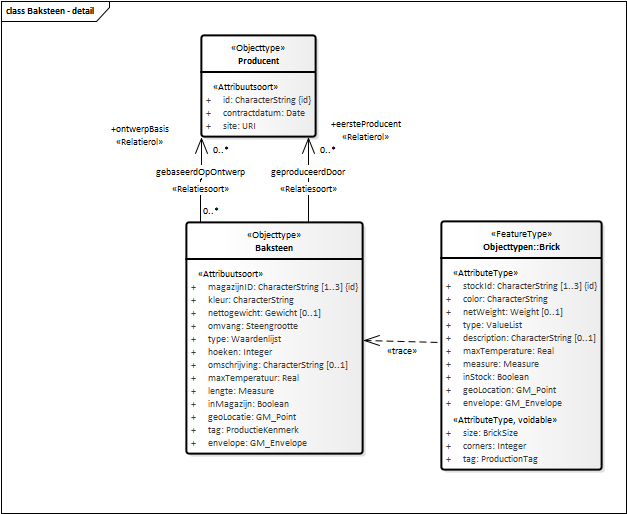
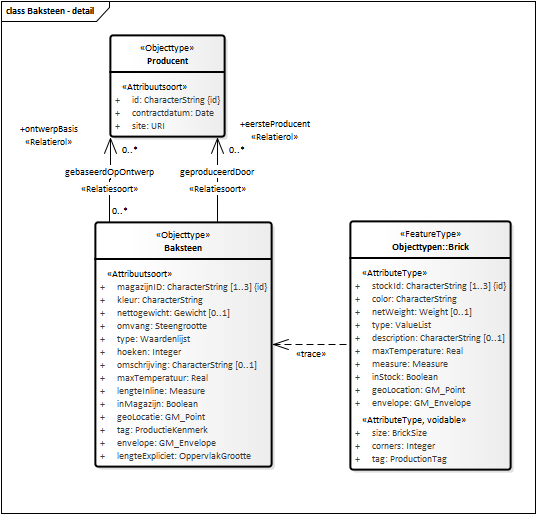
Conceptualmodel-SampleBase-1.0.0-2-20130318-20181015-102304

Changed region(s): [[0.1194, 0.0, 1.0, 0.9961], [0.0, 0.0, 0.209, 0.9961]]

diff --git a/data/SAMPLE-cat.html b/data/SAMPLE-cat.html
@@ -1,10 +1,10 @@
 <h2>Catalogus</h2>
 <p class="note" title="Over deze catalogus">
    Deze catalogus is automatisch samengesteld op basis van het UML model 
-   "SampleBase" door Imvertor 1.47.4 op October 15, 2018 at 07:44:02.
+   "SampleBase" door Imvertor 1.47.4 op October 15, 2018 at 08:23:02.
    <br>
    Wanneer je technische fouten of onvolkomenheden aantreft, geef dit dan door aan <i></i> en geef de code 
-   <i>"Conceptualmodel-SampleBase-1.0.0-2-20130318-20181015-094404"</i> door. 
+   <i>"Conceptualmodel-SampleBase-1.0.0-2-20130318-20181015-102304"</i> door. 
    
 </p>
 <div class="imageinfo overview"><img src="data/Images/EAID_08513AA0_8A50_46c1_AD86_9B80D9A6AAE1.png" usemap="#imagemap-EAID_08513AA0_8A50_46c1_AD86_9B80D9A6AAE1"><map name="imagemap-EAID_08513AA0_8A50_46c1_AD86_9B80D9A6AAE1">
@@ -34,8 +34,8 @@
       <h4>Objecttype Baksteen</h4>
       
       <div class="imageinfo "><img src="data/Images/EAID_EB759E5B_3FAA_4064_A73E_704926072F89.png" usemap="#imagemap-EAID_EB759E5B_3FAA_4064_A73E_704926072F89"><map name="imagemap-EAID_EB759E5B_3FAA_4064_A73E_704926072F89">
-            <area shape="rect" coords="201,137,316,35" alt="" href="#graph_EAID_04EED45C_4D30_41b9_83EE_65237E1F8E27">
-            <area shape="rect" coords="186,454,363,222" alt="" href="#graph_EAID_CF7C4448_E50C_4c7a_B1D0_C4FCB2EB1814"></map><p><b>Baksteen - detail</b> — Gedetailleerde informatie over Baksteen objectttype, inclusief traces.
+            <area shape="rect" coords="110,137,225,35" alt="" href="#graph_EAID_04EED45C_4D30_41b9_83EE_65237E1F8E27">
+            <area shape="rect" coords="95,467,272,222" alt="" href="#graph_EAID_CF7C4448_E50C_4c7a_B1D0_C4FCB2EB1814"></map><p><b>Baksteen - detail</b> — Gedetailleerde informatie over Baksteen objectttype, inclusief traces.
          </p>
       </div>
       
@@ -174,10 +174,10 @@
             </tr>
             <tr>
                <td>
-                  <a class="link" href="#detail_attribute_Model_Baksteen_lengte">lengte</a>
+                  <a class="link" href="#detail_attribute_Model_Baksteen_lengteInline">lengteInline</a>
                   
                </td>
-               <td>Lengte in meters.</td>
+               <td>Lengte in meters</td>
                <td>
                   <a class="link" href="#global_class_Measure">Measure</a>
                   
@@ -228,6 +228,18 @@
                <td></td>
                <td>
                   <a class="link" href="#global_class_Envelope">GM_Envelope</a>
+                  
+               </td>
+               <td>1</td>
+            </tr>
+            <tr>
+               <td>
+                  <a class="link" href="#detail_attribute_Model_Baksteen_lengteExpliciet">lengteExpliciet</a>
+                  
+               </td>
+               <td></td>
+               <td>
+                  <a class="link" href="#global_class_Model_OppervlakGrootte">OppervlakGrootte</a>
                   
                </td>
                <td>1</td>
@@ -1172,7 +1184,7 @@
             </tr>
             <tr>
                <th>Definitie</th>
-               <td>The rectangular size of a section.</td>
+               <td>The rectangular size of a section</td>
             </tr>
             <tr>
                <th>Patroon</th>
@@ -1604,8 +1616,8 @@
          </table>
          
       </section>
-      <a class="anchor" name="detail_attribute_Model_Baksteen_lengte"></a><section id="detail_attribute_Model_Baksteen_lengte">
-         <h6>Attribuutsoort details <a href="#global_class_Model_Baksteen">Baksteen</a> lengte
+      <a class="anchor" name="detail_attribute_Model_Baksteen_lengteInline"></a><section id="detail_attribute_Model_Baksteen_lengteInline">
+         <h6>Attribuutsoort details <a href="#global_class_Model_Baksteen">Baksteen</a> lengteInline
          </h6>
          
          <table>
@@ -1614,11 +1626,11 @@
             <tbody>
                <tr>
                   <th>Naam</th>
-                  <td>lengte</td>
+                  <td>lengteInline</td>
                </tr>
                <tr>
                   <th>Definitie</th>
-                  <td>Lengte in meters.</td>
+                  <td>Lengte in meters</td>
                </tr>
                <tr>
                   <th>Toelichting</th>
@@ -1647,10 +1659,6 @@
                <tr>
                   <th>Indicatie afleidbaar</th>
                   <td>Nee</td>
-               </tr>
-               <tr>
-                  <th>Meeteenheid</th>
-                  <td>m</td>
                </tr>
             </tbody>
          </table>
@@ -1811,6 +1819,46 @@
                <tr>
                   <th>Formaat</th>
                   <td>GM_Envelope</td>
+               </tr>
+               <tr>
+                  <th>Indicatie afleidbaar</th>
+                  <td>Nee</td>
+               </tr>
+            </tbody>
+         </table>
+         
+      </section>
+      <a class="anchor" name="detail_attribute_Model_Baksteen_lengteExpliciet"></a><section id="detail_attribute_Model_Baksteen_lengteExpliciet">
+         <h6>Attribuutsoort details <a href="#global_class_Model_Baksteen">Baksteen</a> lengteExpliciet
+         </h6>
+         
+         <table>
+            <colgroup width="30%"></colgroup>
+            <colgroup width="70%"></colgroup>
+            <tbody>
+               <tr>
+                  <th>Naam</th>
+                  <td>lengteExpliciet</td>
+               </tr>
+               <tr>
+                  <th>Mogelijk geen waarde</th>
+                  <td>Nee</td>
+               </tr>
+               <tr>
+                  <th>Indicatie materiële historie</th>
+                  <td>Nee</td>
+               </tr>
+               <tr>
+                  <th>Indicatie formele historie</th>
+                  <td>Nee</td>
+               </tr>
+               <tr>
+                  <th>Indicatie kardinaliteit</th>
+                  <td>1</td>
+               </tr>
+               <tr>
+                  <th>Formaat</th>
+                  <td>OppervlakGrootte</td>
                </tr>
                <tr>
                   <th>Indicatie afleidbaar</th>
